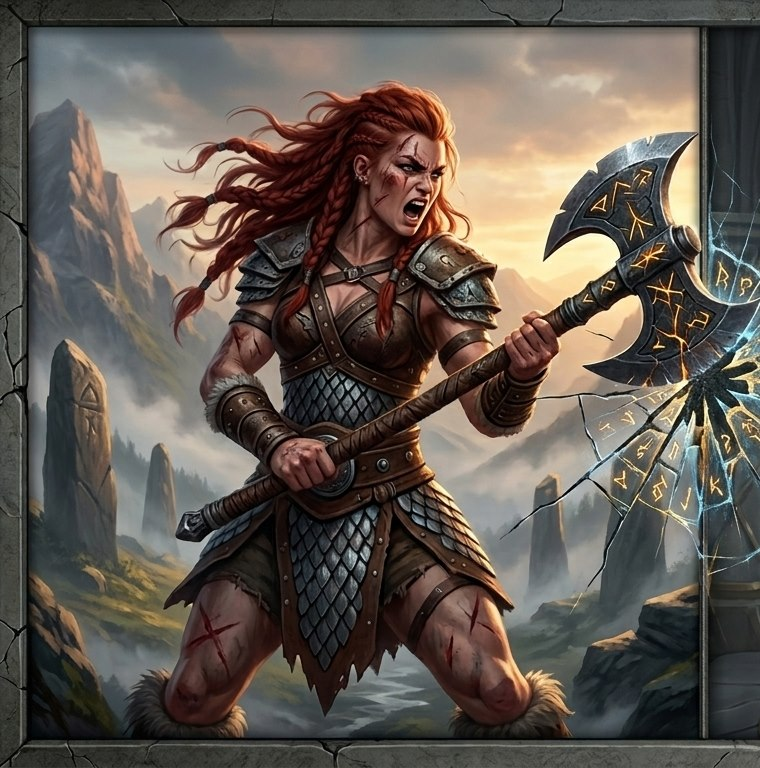
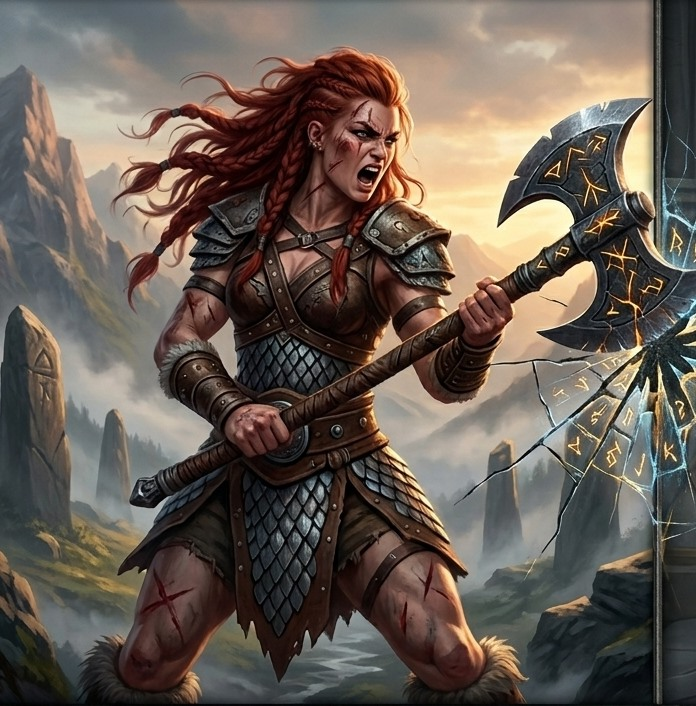
fix: hide footer on auth pages + cleaner warrior crop
- SiteFooter returns null on /login and /register
- Re-crop auth hero inside the stone frame (full-bleed warrior + nature),
  higher quality; align rune-crack to the seam, lighten veil so the art pops

diff --git a/client/src/styles/auth.css b/client/src/styles/auth.css
@@ -18,16 +18,16 @@
   position: absolute; inset: 0;
   background: url('/auth-hero.jpg') no-repeat;
   background-size: cover;
-  background-position: 62% center;
+  background-position: 78% center;
 }
-/* tint the art toward the emerald theme + darken the seam and base */
+/* light emerald tint + darken only the seam and base so the warrior stays vivid */
 .auth-hero-veil {
   position: absolute; inset: 0;
   background:
-    linear-gradient(90deg, rgba(6,11,8,0.45) 0%, transparent 20%, transparent 66%, rgba(6,11,8,0.55) 100%),
-    radial-gradient(130% 100% at 60% 35%, transparent 45%, rgba(6,11,8,0.55) 100%),
-    linear-gradient(0deg, rgba(6,11,8,0.7) 0%, transparent 38%),
-    linear-gradient(160deg, rgba(20,60,42,0.18) 0%, transparent 50%);
+    linear-gradient(90deg, transparent 0%, transparent 70%, rgba(6,11,8,0.5) 100%),
+    radial-gradient(135% 105% at 55% 38%, transparent 55%, rgba(6,11,8,0.42) 100%),
+    linear-gradient(0deg, rgba(6,11,8,0.62) 0%, transparent 34%),
+    linear-gradient(160deg, rgba(20,60,42,0.12) 0%, transparent 55%);
   pointer-events: none;
 }
 /* glowing rune-crack running down the dividing seam */

diff --git a/client/src/components/layout/SiteFooter.jsx b/client/src/components/layout/SiteFooter.jsx
@@ -1,6 +1,12 @@
+import { useLocation } from 'react-router-dom';
+
 const YEAR = new Date().getFullYear();
+const HIDDEN_ON = ['/login', '/register'];
 
 export default function SiteFooter() {
+  const { pathname } = useLocation();
+  if (HIDDEN_ON.includes(pathname)) return null;
+
   return (
     <footer className="site-footer">
       <div className="site-footer-inner">